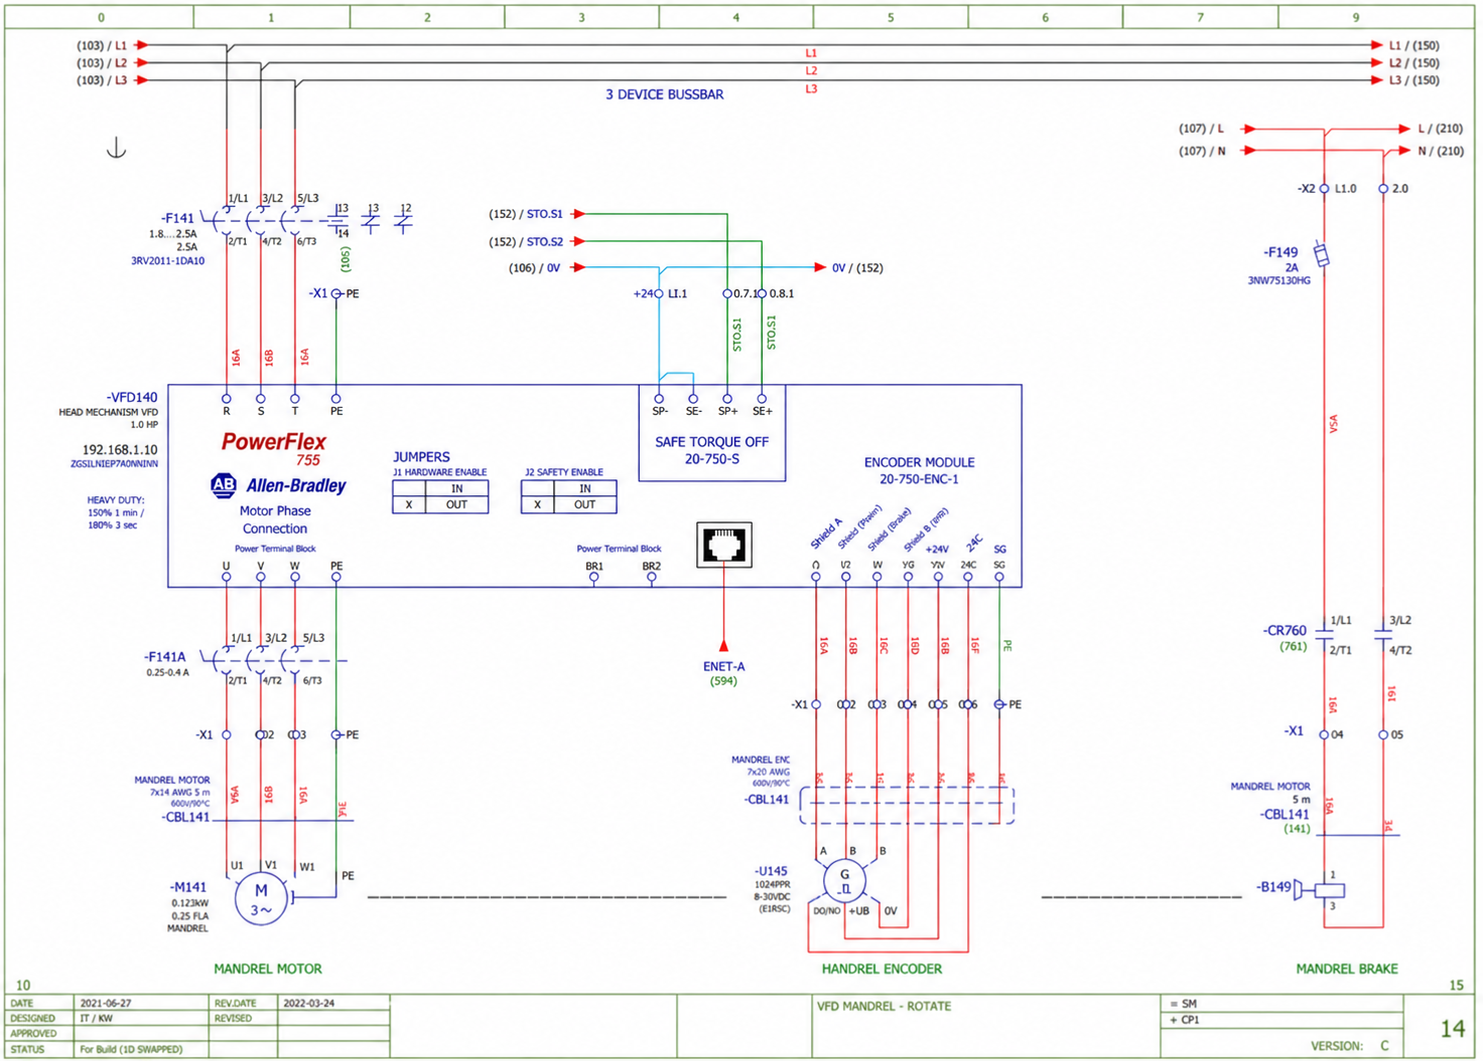
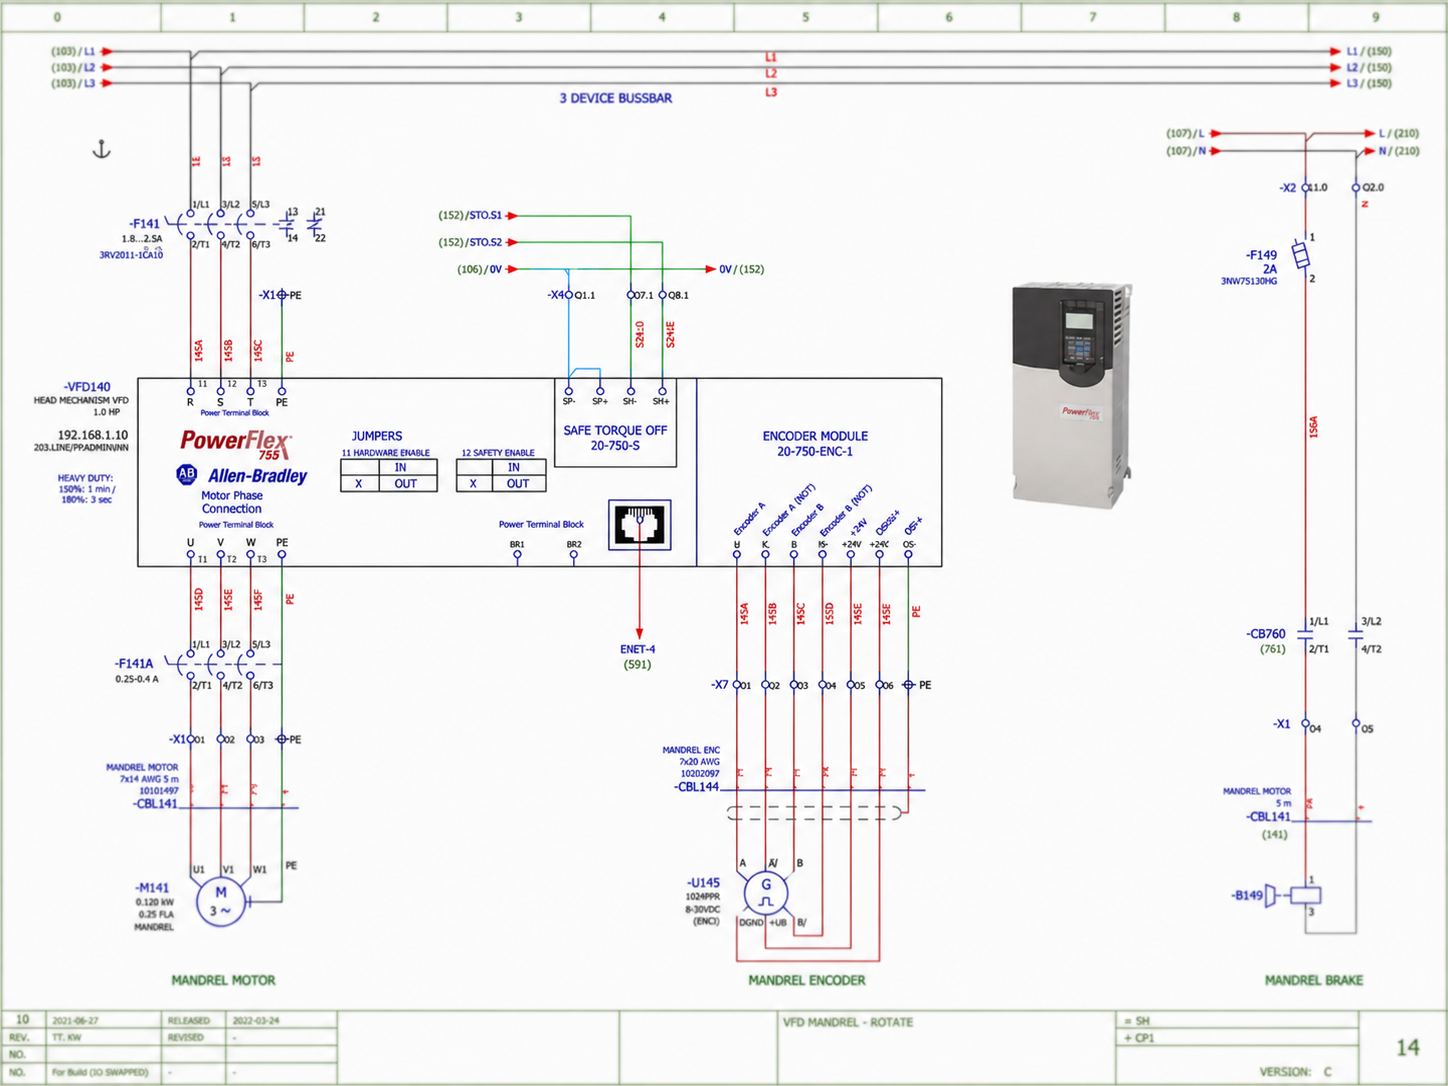
Add per-image project slideshow display modes

diff --git a/app/experience/page.tsx b/app/experience/page.tsx
@@ -19,28 +19,35 @@ type Project = {
 // Replace these four local paths and alt descriptions with final Rockwell project photos.
 const ROCKWELL_PROJECT_IMAGES: SlideshowImage[] = [
   {
-    src: "/projects/rockwell-1.svg",
+    src: "/projects/rockwell-1.jpg",
     alt: "Placeholder for a Rockwell Automation control-system design",
   },
   {
-    src: "/projects/rockwell-2.svg",
+    src: "/projects/rockwell-2.jpg",
     alt: "Placeholder for PlantPAx configuration and development",
   },
   {
-    src: "/projects/rockwell-3.svg",
+    src: "/projects/rockwell-3.jpg",
     alt: "Placeholder for PLC and HMI integration testing",
+    displayMode: "contain",
   },
   {
     src: "/projects/rockwell/rockwell-4.jpg",
     alt: "Placeholder for on-site automation commissioning",
+  },
+  {
+    src: "/projects/rockwell-5.jpg",
+    alt: "Rockwell Bander",
+    displayMode: "contain",
   },
 ];
 
 // Add future Siemens photos here; controls and autoplay enable automatically at two images.
 const SIEMENS_PROJECT_IMAGES: SlideshowImage[] = [
   {
-    src: "/projects/project-placeholder-02.svg",
+    src: "/projects/siemens-1.jpg",
     alt: "Siemens HVAC-R automation project",
+    displayMode: "contain",
   },
 ];
 
@@ -53,6 +60,7 @@ const GEFIX_HC900_PROJECT_IMAGES: SlideshowImage[] = [
   {
     src: "/projects/iFix-2.jpg",
     alt: "GE iFIX and Honeywell HC900 project image 2",
+    displayMode: "contain",
   },
 ];
 
@@ -65,14 +73,17 @@ const ELECTRICAL_ENGINEERING_PROJECT_IMAGES: SlideshowImage[] = [
   {
     src: "/projects/Electrical-2.png",
     alt: "Electrical engineering project image 2 showing a CADD design",
+    displayMode: "contain",
   },
   {
     src: "/projects/electrical-3.jpg",
     alt: "Electrical engineering project image 3 showing project documentation",
+    displayMode: "contain",
   },
   {
     src: "/projects/electrical-4.jpg",
     alt: "Electrical engineering project image 4 showing coordinated electrical design",
+    displayMode: "contain",
   },
 ];
 

diff --git a/app/globals.css b/app/globals.css
@@ -115,9 +115,11 @@ p { color: var(--ink-soft); font-size: 1rem; line-height: 1.75; }
 .project-details dt { color: var(--ink); font-size: .82rem; font-weight: 700; }
 .project-details dd { margin: var(--space-2xs) 0 0; color: var(--ink-soft); font-size: 1rem; line-height: 1.75; }
 .image-slideshow { width: 100%; }
-.image-slideshow-frame { position: relative; display: flex; justify-content: center; width: 100%; aspect-ratio: 4 / 3; overflow: hidden; background: var(--blue-wash); }
-/* Change object-fit to contain later if the full uncropped image should be visible. */
-.project-media .image-slideshow-image { display: block; width: 100%; height: 100%; object-fit: cover; object-position: center; animation: slideshow-fade 500ms ease; }
+.image-slideshow-frame { position: relative; display: flex; align-items: center; justify-content: center; width: 100%; aspect-ratio: 4 / 3; overflow: hidden; background: var(--blue-wash); }
+.image-slideshow-frame.is-contain { background: var(--white); }
+.project-media .image-slideshow-image { display: block; width: 100%; height: 100%; object-position: center; animation: slideshow-fade 500ms ease; }
+.project-media .image-slideshow-image.is-cover { object-fit: cover; }
+.project-media .image-slideshow-image.is-contain { object-fit: contain; }
 .image-slideshow-control { position: absolute; top: 50%; display: grid; place-items: center; width: 2.25rem; height: 2.25rem; padding: 0; border: 1px solid rgba(255, 255, 255, .72); border-radius: 50%; background: rgba(16, 35, 63, .35); color: var(--white); font-size: 1.5rem; line-height: 1; cursor: pointer; transform: translateY(-50%); transition: background 180ms ease; }
 .image-slideshow-control:hover, .image-slideshow-control:focus-visible { background: rgba(16, 35, 63, .62); }
 .image-slideshow-previous { left: var(--space-sm); }

diff --git a/app/ImageSlideshow.tsx b/app/ImageSlideshow.tsx
@@ -5,6 +5,7 @@ import { useEffect, useState } from "react";
 export type SlideshowImage = {
   src: string;
   alt: string;
+  displayMode?: "cover" | "contain";
 };
 
 export function ImageSlideshow({
@@ -17,6 +18,8 @@ export function ImageSlideshow({
   const [currentSlide, setCurrentSlide] = useState(0);
   const [interactionVersion, setInteractionVersion] = useState(0);
   const hasMultipleSlides = images.length > 1;
+  const currentImage = images[currentSlide];
+  const displayMode = currentImage.displayMode ?? "cover";
 
   useEffect(() => {
     if (!hasMultipleSlides) return;
@@ -45,12 +48,12 @@ export function ImageSlideshow({
 
   return (
     <div className="image-slideshow" aria-label={label}>
-      <div className="image-slideshow-frame">
+      <div className={`image-slideshow-frame is-${displayMode}`}>
         <img
-          key={images[currentSlide].src}
-          className="image-slideshow-image"
-          src={images[currentSlide].src}
-          alt={images[currentSlide].alt}
+          key={currentImage.src}
+          className={`image-slideshow-image is-${displayMode}`}
+          src={currentImage.src}
+          alt={currentImage.alt}
         />
         {hasMultipleSlides && (
           <>
